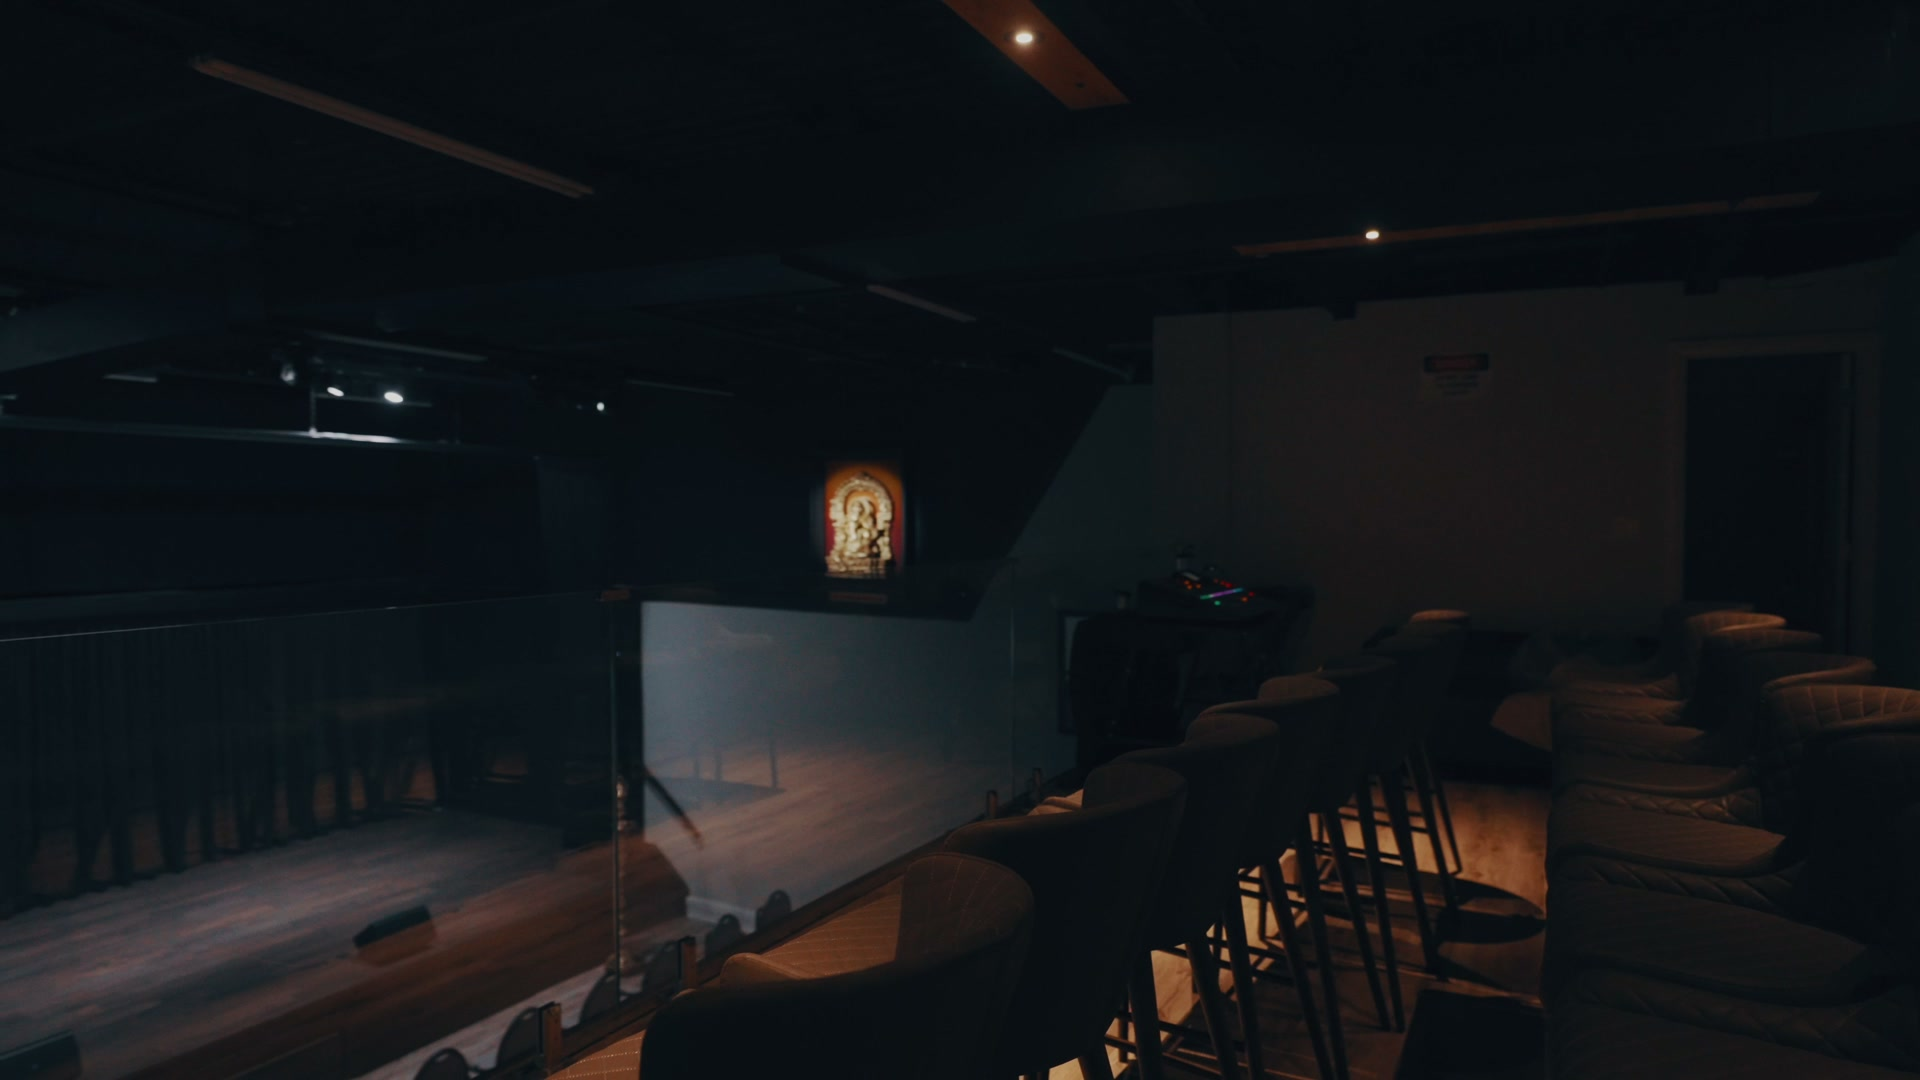
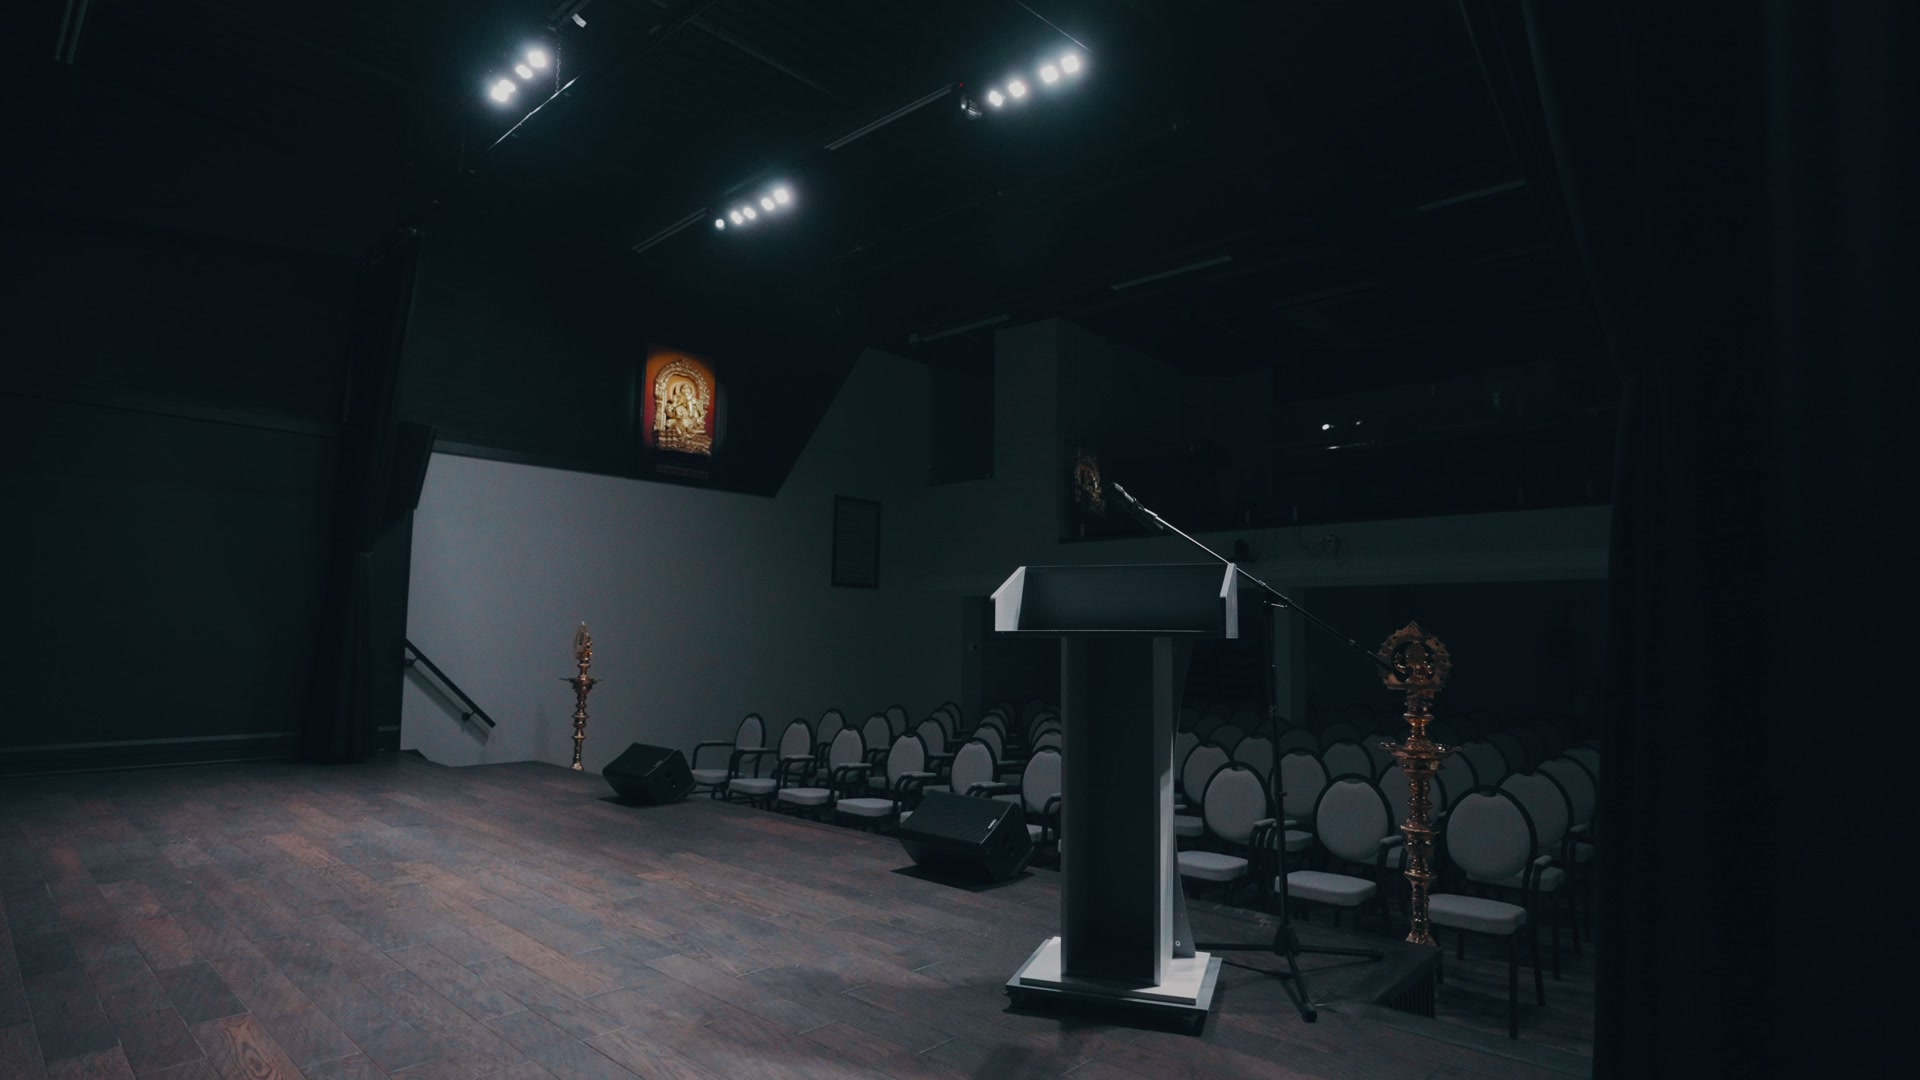
Trim studio gallery and drop mentorship copy
Keep only stage, seating, and sound system photos; swap in better
frames (stage now seen from the back of the room with the seats in
the foreground, seating now shot from the stage looking out at all
the chairs). Remove the mentorship pillar and references from the
about copy.

diff --git a/app/page.tsx b/app/page.tsx
@@ -4,39 +4,21 @@ import styles from "./page.module.css";
 const studioShots = [
   {
     src: "/studio/stage.jpg",
-    alt: "The stage at Aayakalaihal Arangam, framed by traditional oil lamps",
+    alt: "The stage at Aayakalaihal Arangam, seen from the back of the seating area",
     title: "The Stage",
-    copy: "A clean, warmly lit stage framed by traditional oil lamps — ready for recitals, dance, and live performance.",
+    copy: "A well-lit stage framed by traditional oil lamps, seen from the back of the room — ready for recitals, dance, and live performance.",
   },
   {
     src: "/studio/seating.jpg",
-    alt: "Rows of auditorium seating facing the stage",
+    alt: "Rows of auditorium seating seen from the stage",
     title: "The Seating",
-    copy: "Tiered auditorium seating brings family, friends, and community together for every show.",
-  },
-  {
-    src: "/studio/soundboard.jpg",
-    alt: "A digital mixing console glowing in the dark",
-    title: "The Sound Board",
-    copy: "A full digital mixing console gives every performance professional, concert-grade sound.",
+    copy: "Tiered auditorium seating, seen from the stage — room for family, friends, and community to gather for every show.",
   },
   {
     src: "/studio/sound-system.jpg",
     alt: "QSC K.2 series speakers mounted on stage",
     title: "The Sound System",
     copy: "QSC K.2 series speakers deliver clear, powerful audio throughout the hall.",
-  },
-  {
-    src: "/studio/ganesha.jpg",
-    alt: "A brass Ganesha statue on stage",
-    title: "A Blessing on Stage",
-    copy: "A brass Ganesha watches over every performance from the wings.",
-  },
-  {
-    src: "/studio/lamp.jpg",
-    alt: "A traditional brass kuthuvilakku ceremonial lamp",
-    title: "The Kuthuvilakku",
-    copy: "A traditional ceremonial lamp, lit before every event to honor the space and its purpose.",
   },
 ];
 
@@ -69,7 +51,7 @@ export default function Home() {
           <p className={styles.eyebrow}>Non-profit in Markham, Ontario</p>
           <h1 className={styles.title}>A&amp;K Foundation</h1>
           <p className={styles.lede}>
-            Cultivating community through music, mentorship, and performance.
+            Cultivating community through music and performance.
           </p>
           <div className={styles.heroActions}>
             <a href="#studio" className={styles.buttonPrimary}>
@@ -87,14 +69,14 @@ export default function Home() {
           <div className={styles.sectionInner}>
             <p className={styles.eyebrowDark}>About Us</p>
             <h2 className={styles.sectionTitle}>
-              A home for music, mentorship, and performance
+              A home for music and performance
             </h2>
             <p className={styles.sectionLede}>
               A&amp;K Foundation is a non-profit organization based in
               Markham, Ontario, dedicated to preserving and celebrating
-              traditional arts. Through our performance studio, mentorship
-              programs, and community events, we give artists of every age a
-              stage to grow, perform, and connect with one another.
+              traditional arts. Through our performance studio and community
+              events, we give artists of every age a stage to grow, perform,
+              and connect with one another.
             </p>
             <div className={styles.pillars}>
               <div className={styles.pillar}>
@@ -102,13 +84,6 @@ export default function Home() {
                 <p>
                   Recitals and performances that keep classical and
                   contemporary traditions alive.
-                </p>
-              </div>
-              <div className={styles.pillar}>
-                <h3>Mentorship</h3>
-                <p>
-                  Guidance and training that helps emerging artists find
-                  their voice.
                 </p>
               </div>
               <div className={styles.pillar}>
